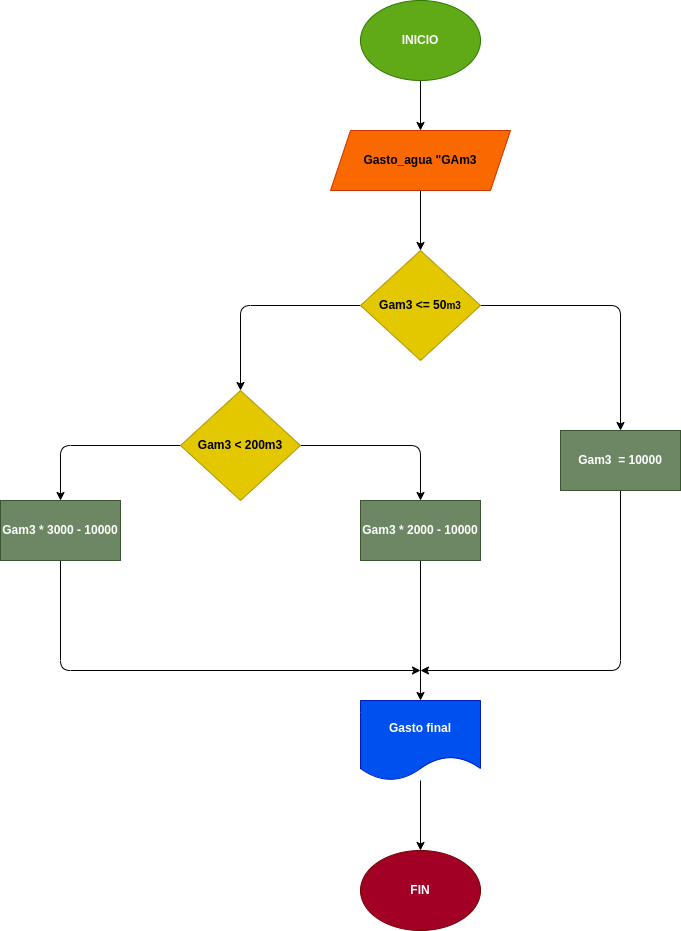
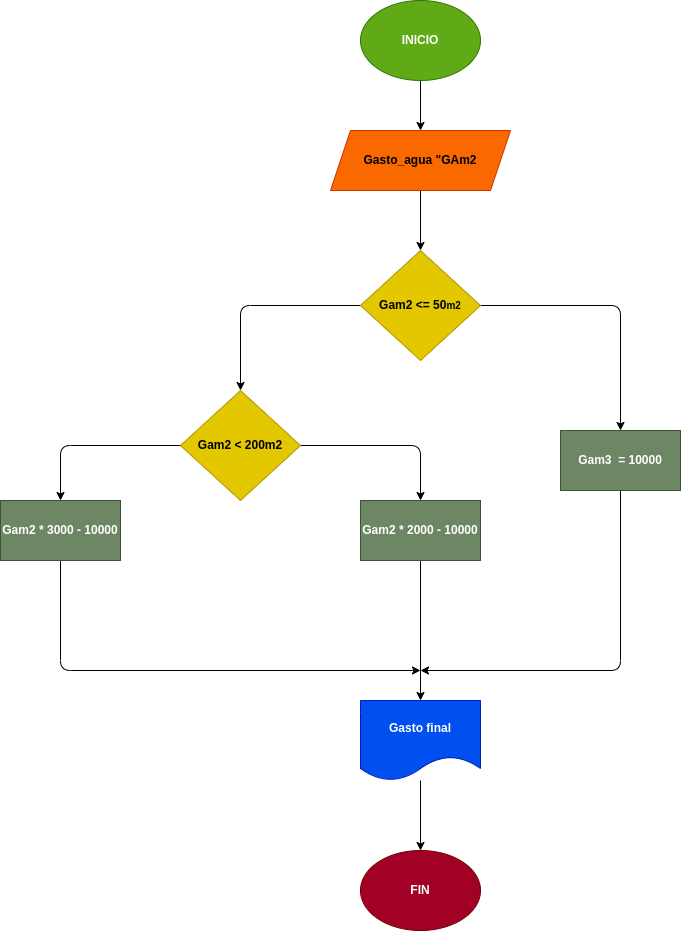
Se termino de hacer el ejercicio 5

diff --git a/Carpeta 5/Gasto_del_agua.py b/Carpeta 5/Gasto_del_agua.py
@@ -1,20 +1,18 @@
-# Programa para calcular el costo de agua por m3
+# Programa para calcular el gasto de agua de una vivienda
 
 # Input
-Gasto_agua = int(input("Digite el gasto de agua en su vivienda (en m3): "))
+Gam2 = int(input("Ingrese la cantidad de m2 de agua gastados: "))
 
 # Cuota fija mensual
 cuota_fija = 10000
 
-# Variable para la cantidad de m³ que excede los primeros 50 m³ gratuitos
-exceso_m3 = max(0, Gasto_agua - 50)
-
 # Processing
-if Gasto_agua <= 50:
-    Pago = cuota_fija  # Los primeros 50 m³ son gratis
+if Gam2 <= 50:
+    costo_agua = cuota_fija 
+elif Gam2 <= 200:
+    costo_agua = (Gam2 - 50) * 2000 + cuota_fija
 else:
-    Pago = exceso_m3 * 2000 + cuota_fija
+    costo_agua = (Gam2 - 200) * 3000 + 150000 
 
-# Output 
-print(f"El dinero a pagar por el gasto del agua es: {Pago}")
-print(f"Cantidad de m³ que excede los primeros 50 m³: {exceso_m3}")
+# Output
+print(f"El gasto de agua para {Gam2} m2 es: ${costo_agua}")
